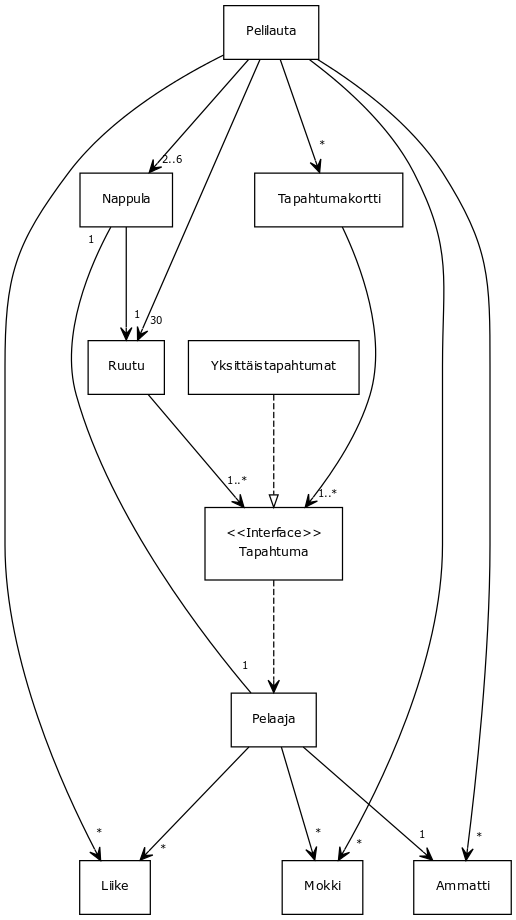
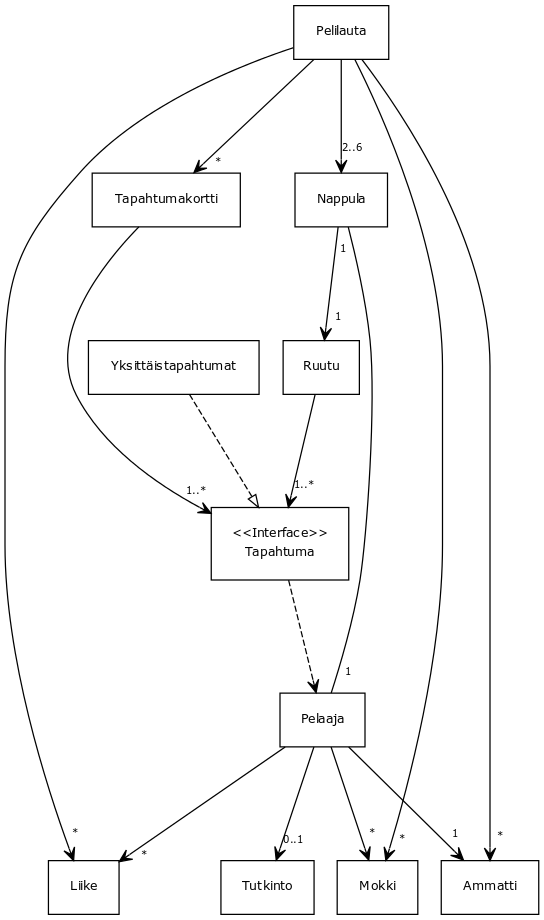
Luokkakaaviota päivitetty

diff --git a/Dokumentaatio/Tuntikirjanpito.md b/Dokumentaatio/Tuntikirjanpito.md
@@ -9,3 +9,4 @@
 * 24.3.2015 6 tuntia, Koodasin lisää tapahtumaluokkia, sain ruutujen luonti-luokan ainakin tältä erää valmiiksi
 * 25.3.2015 9 tuntia, Tein testejä, tein ruutujen luonti-luokkaa hieman siistimmäksi
 * 27.3.2015 6 tuntia, Lisää luojaluokkia ja niiden testejä koodattu
+* 30.3.2015 4 tuntia, Koodasin lisää tapahtumaluokkia ja niiden testejä, Tutkinto on nyt boolean-arvon sijasta luokka
